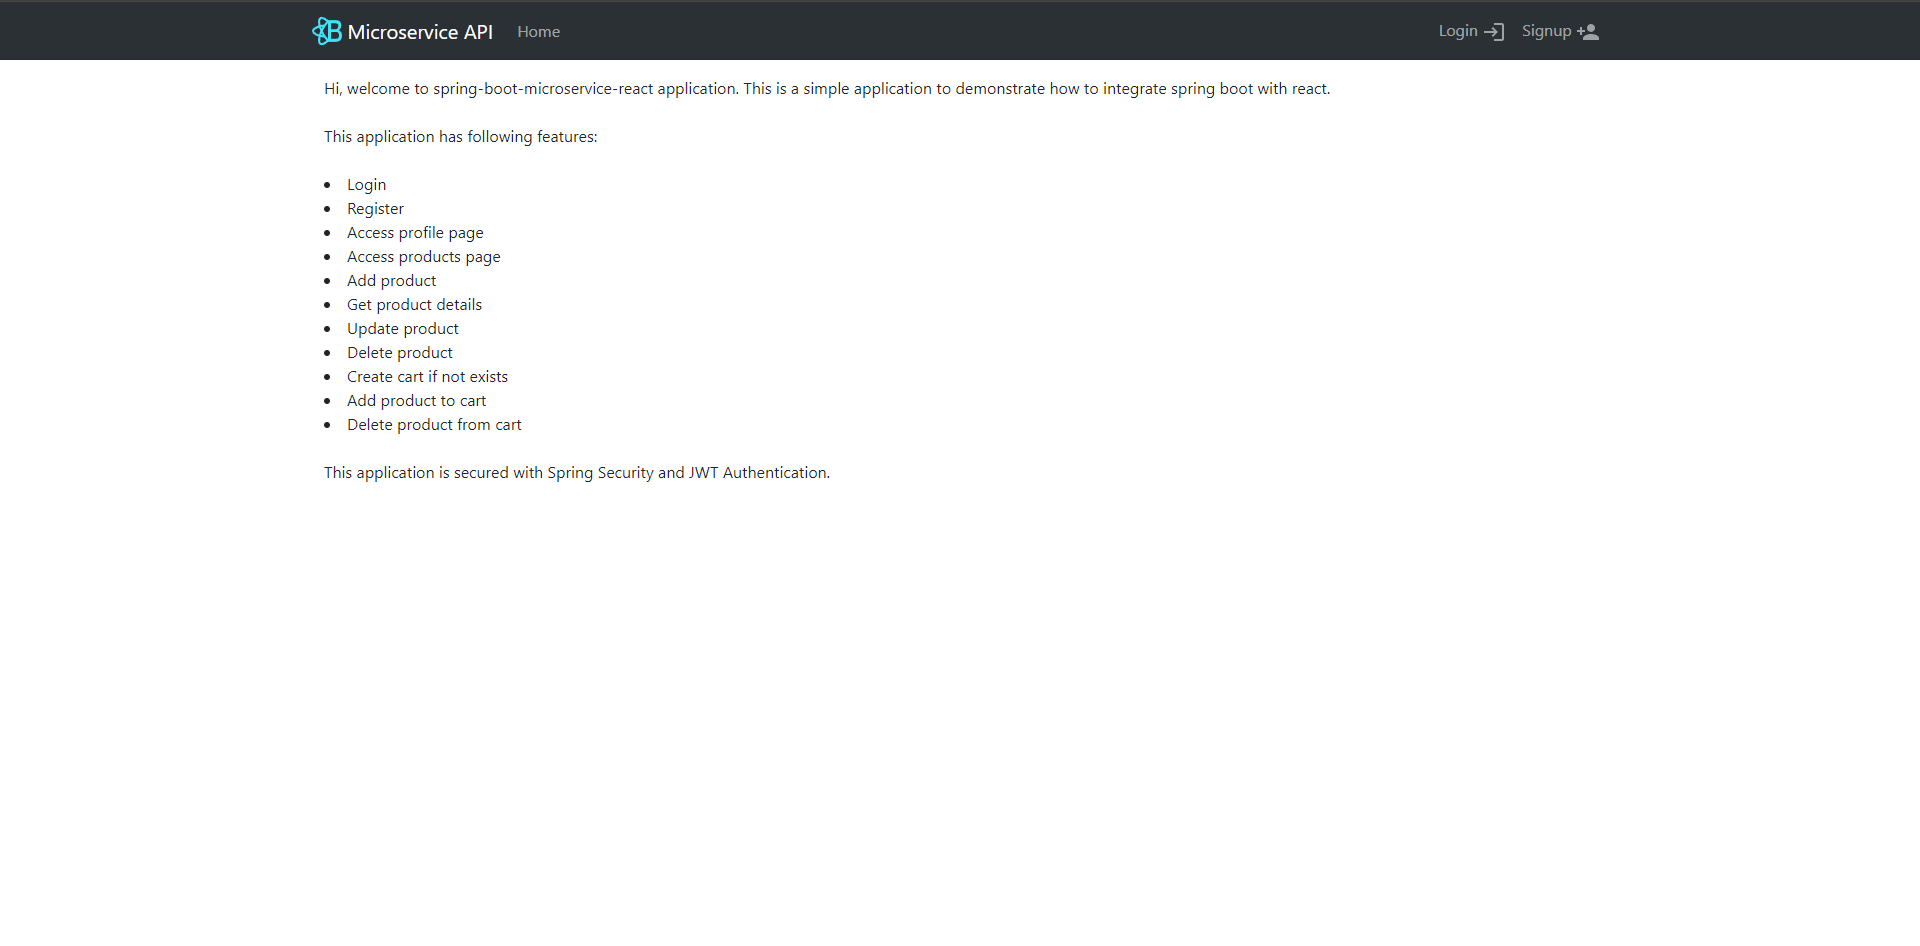
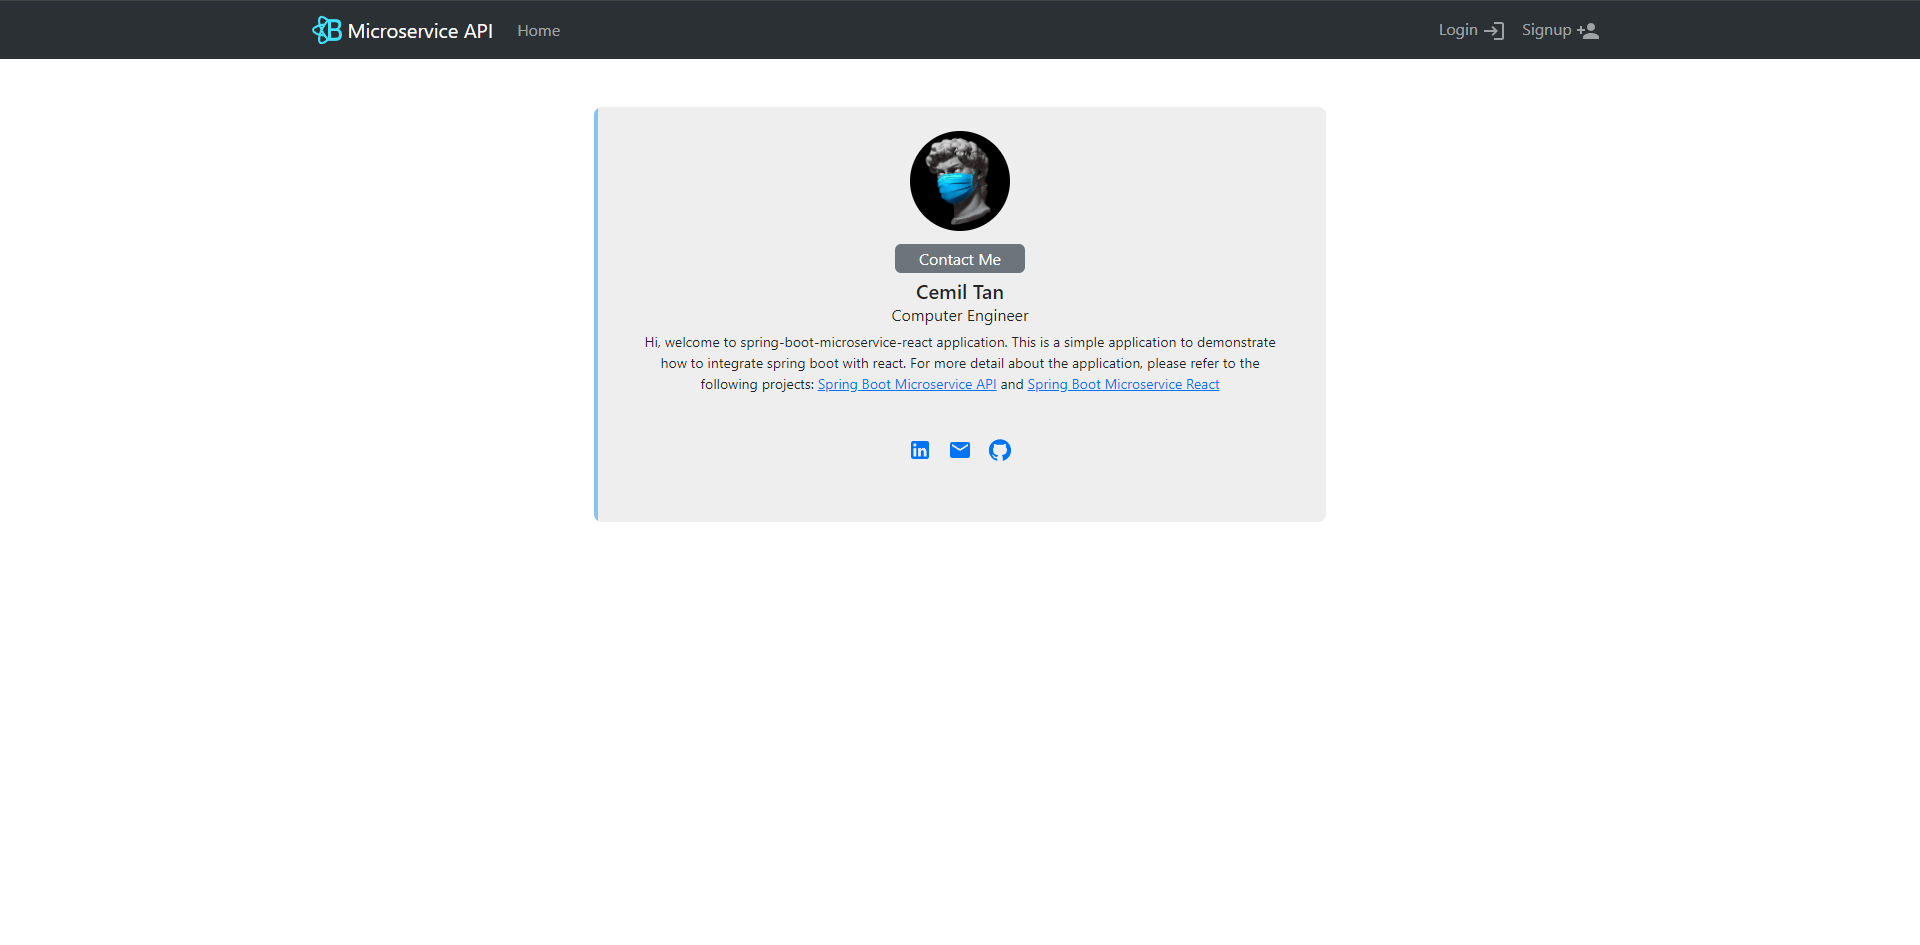
Home page ui update

diff --git a/src/components/HomeComponent.js b/src/components/HomeComponent.js
@@ -1,5 +1,6 @@
+import { Email, GitHub, LinkedIn } from "@mui/icons-material";
 import React, { Component } from "react";
-
+import IconButton from '@mui/material/IconButton';
 
 export default class Home extends Component {
     constructor(props) {
@@ -16,35 +17,61 @@ export default class Home extends Component {
 
     render() {
         return (
-            <div className="container">
-                <header className="jumbotron">
-                    <h3>{this.state.content}</h3>
-                    <div>
-                        <p>
-                            Hi, welcome to spring-boot-microservice-react application. This is a simple application to demonstrate how to integrate spring boot with react.
-                            <br />
-                            <br />
-                            This application has following features:
-                            <br />
-                            <br />
-                            <li>Login</li>
-                            <li>Register</li>
-                            <li>Access profile page</li>
-                            <li>Access products page</li>
-                            <li>Add product</li>
-                            <li>Get product details</li>
-                            <li>Update product</li>
-                            <li>Delete product</li>
-                            <li>Create cart if not exists</li>
-                            <li>Add product to cart</li>
-                            <li>Delete product from cart</li>
-                            <br />
-                            This application is secured with Spring Security and JWT Authentication.
+            <div class="container mt-5">
+            <div class="row d-flex justify-content-center">
+                <div class="col-md-7">
+                    <div class="aboutCard p-3 py-4">
+                        <div class="text-center">
+                            <img src="https://avatars.githubusercontent.com/u/62745858?v=4" width="100" class="rounded-circle" />
+                        </div>
 
-                        </p>
+                        <div class="text-center mt-3">
+                            <span class="bg-secondary p-1 px-4 rounded text-white">Contact Me</span>
+                            <h5 class="mt-2 mb-0">Cemil Tan</h5>
+                            <span>Computer Engineer</span>
+
+                            <div class="px-4 mt-1">
+                                <p class="aboutfonts"> Hi, welcome to spring-boot-microservice-react application. This is a simple application to demonstrate how to integrate spring boot with react. For more detail about the application, please refer to the following projects: <span/>
+                                    <a href="https://github.com/Ctere1/spring-boot-microservice" target="_blank" rel="noopener noreferrer">
+                                        Spring Boot Microservice API
+                                    </a>
+                                    <span/> and <span/> 
+                                    <a href="https://github.com/Ctere1/spring-boot-microservice-react" target="_blank" rel="noopener noreferrer">
+                                        Spring Boot Microservice React
+                                    </a>
+                                </p>
+                            </div>
+
+                            <ul className="about-social-list">
+                                <li>
+                                    <IconButton>
+                                        <a href="https://www.linkedin.com/in/cemil-tan-a337b512b/" target="_blank" rel="noopener noreferrer">
+                                            <LinkedIn />
+                                        </a>
+                                    </IconButton>
+                                </li>
+                                <li>
+                                    <IconButton>
+                                        <a href="mailto:cemiltan896@gmail.com">
+                                            <Email />
+                                        </a>
+                                    </IconButton>
+                                </li>
+                                <li>
+                                    <IconButton>
+                                        <a href="https://github.com/Ctere1/" target="_blank" rel="noopener noreferrer">
+                                            <GitHub />
+                                        </a>
+                                    </IconButton>
+                                </li>
+                            </ul>
+
+
+                        </div>
                     </div>
-                </header>
+                </div>
             </div>
+        </div>
         );
     }
 }

diff --git a/src/App.js b/src/App.js
@@ -13,7 +13,6 @@ import LoginComponent from "./components/LoginComponent";
 import RegisterComponent from "./components/RegisterComponent";
 import HomeComponent from "./components/HomeComponent";
 import ProfileComponent from "./components/ProfileComponent";
-import AboutComponent from "./components/AboutComponent";
 import AddProductComponent from "./components/AddProductComponent";
 import ProductEditComponent from "./components/ProductEditComponent";
 import ProductsListComponent from "./components/ProductsListComponent";
@@ -90,15 +89,6 @@ class App extends Component {
                 <>
                   <Nav className="me-auto">
                     <Nav.Link href="/products">Products</Nav.Link>
-                    <NavDropdown title="Tools" id="basic-nav-dropdown">
-                      <NavDropdown.Item href="/about">
-                        About
-                      </NavDropdown.Item>
-                      <NavDropdown.Divider />
-                      <NavDropdown.Item href={process.env.REACT_APP_EUREKA_URL} target="_blank">
-                        Eureka Server
-                      </NavDropdown.Item>
-                    </NavDropdown>
                     <NavDropdown title="Swagger" id="basic-nav-dropdown">
                       <NavDropdown.Item href={process.env.REACT_APP_USER_SERVICE_SWAGGER_URL} target="_blank">
                         User Service
@@ -108,6 +98,10 @@ class App extends Component {
                       </NavDropdown.Item>
                       <NavDropdown.Item href={process.env.REACT_APP_PRODUCT_SERVICE_SWAGGER_URL} target="_blank">
                         Product Service
+                      </NavDropdown.Item>
+                      <NavDropdown.Divider />
+                      <NavDropdown.Item href={process.env.REACT_APP_EUREKA_URL} target="_blank">
+                        Eureka Server
                       </NavDropdown.Item>
                     </NavDropdown>
                   </Nav><Nav>
@@ -141,12 +135,11 @@ class App extends Component {
             <Route exact path="/register" element={<RegisterComponent />} />
 
             {currentUser && (
-              <>       
+              <>
                 <Route exact path="/profile" element={<ProfileComponent />} />
                 <Route exact path="/products/add" element={<AddProductComponent />} />
                 <Route path="/products/:id" element={<ProductEditComponent />} />
                 <Route path="/products" element={<ProductsListComponent />} />
-                <Route path="/about" element={<AboutComponent />} />
               </>
             )}
           </Routes>

diff --git a/src/App.css b/src/App.css
@@ -25,8 +25,10 @@ label {
   margin: 0 auto 20px;
   display: block;
   border-radius: 50%;
-  object-fit: cover; /* Ensure the image maintains its aspect ratio */
-  border: 2px solid #3498db; /* Blue border color */
+  object-fit: cover;
+  /* Ensure the image maintains its aspect ratio */
+  border: 2px solid #3498db;
+  /* Blue border color */
 }
 
 .list {
@@ -86,4 +88,57 @@ label {
 .styled-hr {
   width: 100%;
   margin-top: 0px;
+}
+
+/* About PAGE */
+.aboutCard {
+  background: #eee;
+  border: none;
+  position: relative;
+  overflow: hidden;
+  border-radius: 8px;
+  cursor: pointer;
+}
+
+.aboutCard:before {
+  content: "";
+  position: absolute;
+  left: 0;
+  top: 0;
+  width: 4px;
+  height: 100%;
+  background-color: #0080ff6b;
+  transform: scaleY(1);
+  transition: all 0.5s;
+  transform-origin: bottom
+}
+
+.aboutCard:after {
+  content: "";
+  position: absolute;
+  left: 0;
+  top: 0;
+  width: 4px;
+  height: 100%;
+  background-color: #0080ff;
+  transform: scaleY(0);
+  transition: all 0.5s;
+  transform-origin: bottom
+}
+
+.aboutCard:hover::after {
+  transform: scaleY(1);
+}
+
+.aboutfonts {
+  font-size: 14px;
+}
+
+.about-social-list {
+  display: flex;
+  list-style: none;
+  justify-content: center;
+  padding: 10px;
+  color: #0080ff;
+  font-size: 19px;
 }

diff --git a/README.md b/README.md
@@ -90,10 +90,6 @@
 > 
 >   ![Profile](./screenshots/ss6.png)
 
-### **About Page**
-> * User profile page
-> 
->   ![Profile](./screenshots/ss7.png)
 
 ### **Swagger Documents**
 > * User service
